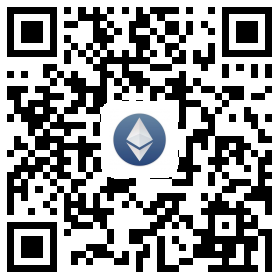
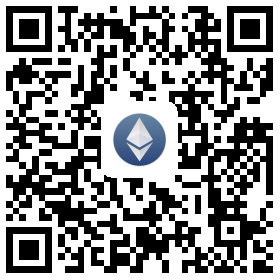
Site updated: 2018-05-27 09:34:14

diff --git a/tags/index.html b/tags/index.html
@@ -117,13 +117,13 @@
     
     <a href="#测试" title="测试" rel="1">测试</a>
     
-    <a href="#Hexo" title="Hexo" rel="1">Hexo</a>
-    
     <a href="#MySQL" title="MySQL" rel="1">MySQL</a>
     
     <a href="#存储引擎" title="存储引擎" rel="1">存储引擎</a>
     
     <a href="#读书笔记" title="读书笔记" rel="1">读书笔记</a>
+    
+    <a href="#Hexo" title="Hexo" rel="1">Hexo</a>
     
 </div>
 
@@ -143,27 +143,6 @@
         <a href="/2017/11/05/Hello-Github/">
             <h2 class="post-title">
                 你好, Github.
-            </h2>
-            
-        </a>
-        <!-- <p class="post-meta">{{ post.date | date:"%Y-%m-%d" }}</p> -->
-    </div>
-    
-</div>
-
-<div class="one-tag-list">
-                <span class="fa fa-tag listing-seperator" id="Hexo">
-                    <span class="tag-text">Hexo</span>
-                </span>
-    
-    <!-- <li class="listing-item">
-    <time datetime="{{ post.date | date:"%Y-%m-%d" }}">{{ post.date | date:"%Y-%m-%d" }}</time>
-    <a href="{{ post.url }}" title="{{ post.title }}">{{ post.title }}</a>
-    </li> -->
-    <div class="post-preview">
-        <a href="/2017/11/05/基于Hexo-github托管静态页面/">
-            <h2 class="post-title">
-                基于Hexo+github创建静态页面博客
             </h2>
             
         </a>
@@ -227,6 +206,27 @@
         <a href="/2017/11/08/MySQL体系结构和存储引擎/">
             <h2 class="post-title">
                 MySQL体系结构和存储引擎
+            </h2>
+            
+        </a>
+        <!-- <p class="post-meta">{{ post.date | date:"%Y-%m-%d" }}</p> -->
+    </div>
+    
+</div>
+
+<div class="one-tag-list">
+                <span class="fa fa-tag listing-seperator" id="Hexo">
+                    <span class="tag-text">Hexo</span>
+                </span>
+    
+    <!-- <li class="listing-item">
+    <time datetime="{{ post.date | date:"%Y-%m-%d" }}">{{ post.date | date:"%Y-%m-%d" }}</time>
+    <a href="{{ post.url }}" title="{{ post.title }}">{{ post.title }}</a>
+    </li> -->
+    <div class="post-preview">
+        <a href="/2017/11/05/基于Hexo-github托管静态页面/">
+            <h2 class="post-title">
+                基于Hexo+github创建静态页面博客
             </h2>
             
         </a>

diff --git a/2017/11/05/Hello-Github/index.html b/2017/11/05/Hello-Github/index.html
@@ -150,7 +150,7 @@
     </div>
     <div class="donate-img-container hide" id="donate-img-container">
         <img id="donate-img" src="" data-src="/img/eth.png">
-        <p> 感谢鼓励(ETH:0x3653A7F6502211EB861C7bB11E823010BB9836df) </p>
+        <p> 感谢鼓励(ETH:0xB0CAC88b5B5F893dD05aa46F0f7d9708C4dAFA3b) </p>
     </div>
 </div>
 

diff --git a/2017/11/05/基于Hexo-github托管静态页面/index.html b/2017/11/05/基于Hexo-github托管静态页面/index.html
@@ -173,7 +173,7 @@
     </div>
     <div class="donate-img-container hide" id="donate-img-container">
         <img id="donate-img" src="" data-src="/img/eth.png">
-        <p> 感谢鼓励(ETH:0x3653A7F6502211EB861C7bB11E823010BB9836df) </p>
+        <p> 感谢鼓励(ETH:0xB0CAC88b5B5F893dD05aa46F0f7d9708C4dAFA3b) </p>
     </div>
 </div>
 

diff --git a/2017/11/08/MySQL体系结构和存储引擎/index.html b/2017/11/08/MySQL体系结构和存储引擎/index.html
@@ -180,7 +180,7 @@
     </div>
     <div class="donate-img-container hide" id="donate-img-container">
         <img id="donate-img" src="" data-src="/img/eth.png">
-        <p> 感谢鼓励(ETH:0x3653A7F6502211EB861C7bB11E823010BB9836df) </p>
+        <p> 感谢鼓励(ETH:0xB0CAC88b5B5F893dD05aa46F0f7d9708C4dAFA3b) </p>
     </div>
 </div>
 

diff --git a/about/index.html b/about/index.html
@@ -128,7 +128,7 @@
     </div>
     <div class="donate-img-container hide" id="donate-img-container">
         <img id="donate-img" src="" data-src="/img/eth.png">
-        <p> 感谢鼓励(ETH:0x3653A7F6502211EB861C7bB11E823010BB9836df) </p>
+        <p> 感谢鼓励(ETH:0xB0CAC88b5B5F893dD05aa46F0f7d9708C4dAFA3b) </p>
     </div>
 </div>
 
